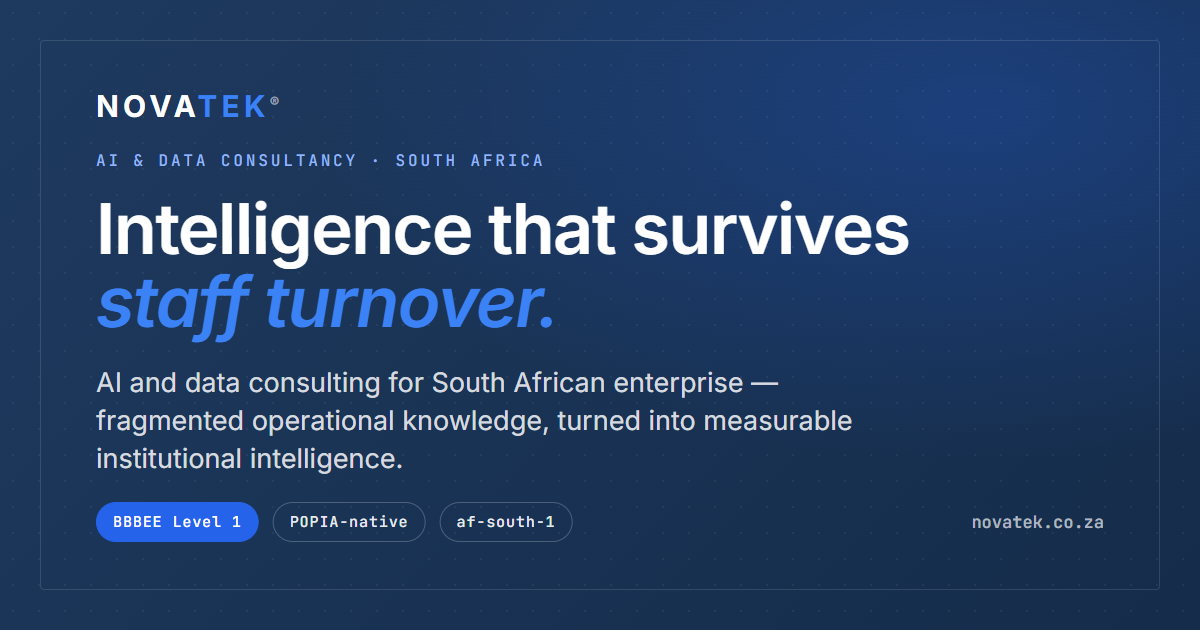
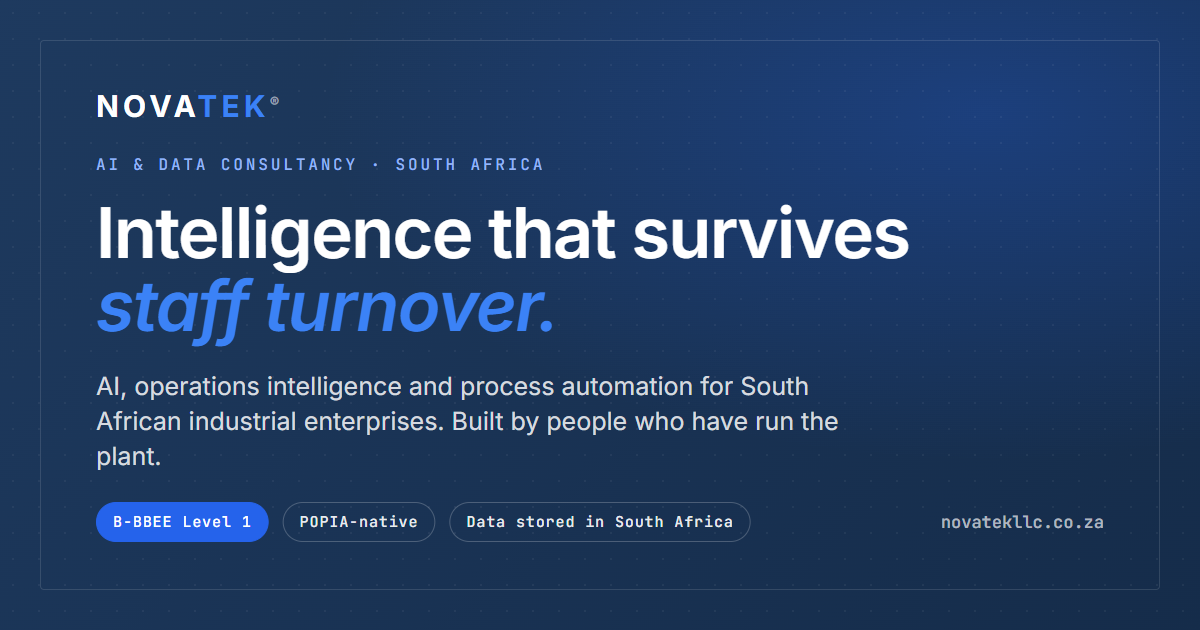
chore(seo): finalise the JSON-LD graph, cache headers and OG assets
JSON-LD gains a NOVAFLOW Organization node linked via subOrganization, and
a SoftwareApplication node for BusinessBrain. Deliberately none for IQMS or
IPV: marking up an MVP and a proof of concept as available software would
contradict the maturity labels published on the same page.

_headers gains cache blocks for /businessbrain and /novaflow. SPA fallback
serves those paths as HTML, and the existing "/" rule does not match them,
so both were being served without the short-cache rule the homepage gets.

OG images regenerated. The old og-image.png had novatek.co.za, "BBBEE Level
1" and "af-south-1" baked into the pixels, so every LinkedIn and WhatsApp
share was showing the wrong domain and the retracted residency claim
regardless of what the markup said. New card carries novatekllc.co.za,
B-BBEE Level 1, POPIA-native and "Data stored in South Africa".

Adds og-novaflow.png for the new route, wired through the Seo image prop.

Both must be re-scraped in LinkedIn Post Inspector and Facebook Sharing
Debugger after deploy or the old cards persist for weeks.

diff --git a/index.html b/index.html
@@ -70,6 +70,7 @@
               "addressRegion": "Gauteng",
               "addressCountry": "ZA"
             },
+            "subOrganization": { "@id": "https://novatekllc.co.za/#novaflow" },
             "contactPoint": {
               "@type": "ContactPoint",
               "contactType": "sales",
@@ -108,6 +109,26 @@
                 { "@type": "Offer", "itemOffered": { "@type": "Service", "name": "Skills Development and Training", "description": "Artisan training programmes, TVET workplace partnerships, AI workspace upskilling and leadership development for engineering teams." } }
               ]
             }
+          },
+          {
+            "@type": "Organization",
+            "@id": "https://novatekllc.co.za/#novaflow",
+            "name": "NOVAFLOW",
+            "alternateName": "NOVAFLOW by NOVATEK",
+            "url": "https://novatekllc.co.za/novaflow",
+            "parentOrganization": { "@id": "https://novatekllc.co.za/#organization" },
+            "description": "NOVAFLOW is NOVATEK's flow-assets division: brand-agnostic service, repair, reliability and spares for pumps and valves, with cross-brand asset intelligence and local-content compliance built in. It holds no equipment distributorship or agency and carries no inventory.",
+            "areaServed": { "@type": "Country", "name": "South Africa" }
+          },
+          {
+            "@type": "SoftwareApplication",
+            "@id": "https://novatekllc.co.za/#businessbrain",
+            "name": "BusinessBrain",
+            "url": "https://novatekllc.co.za/businessbrain",
+            "applicationCategory": "BusinessApplication",
+            "operatingSystem": "Web",
+            "publisher": { "@id": "https://novatekllc.co.za/#organization" },
+            "description": "An institutional-memory and operations-intelligence platform: a retrieval-and-reasoning layer over existing Microsoft 365, Google Cloud and Postgres systems. A system of insight, never a system of record."
           },
           {
             "@type": "WebSite",
